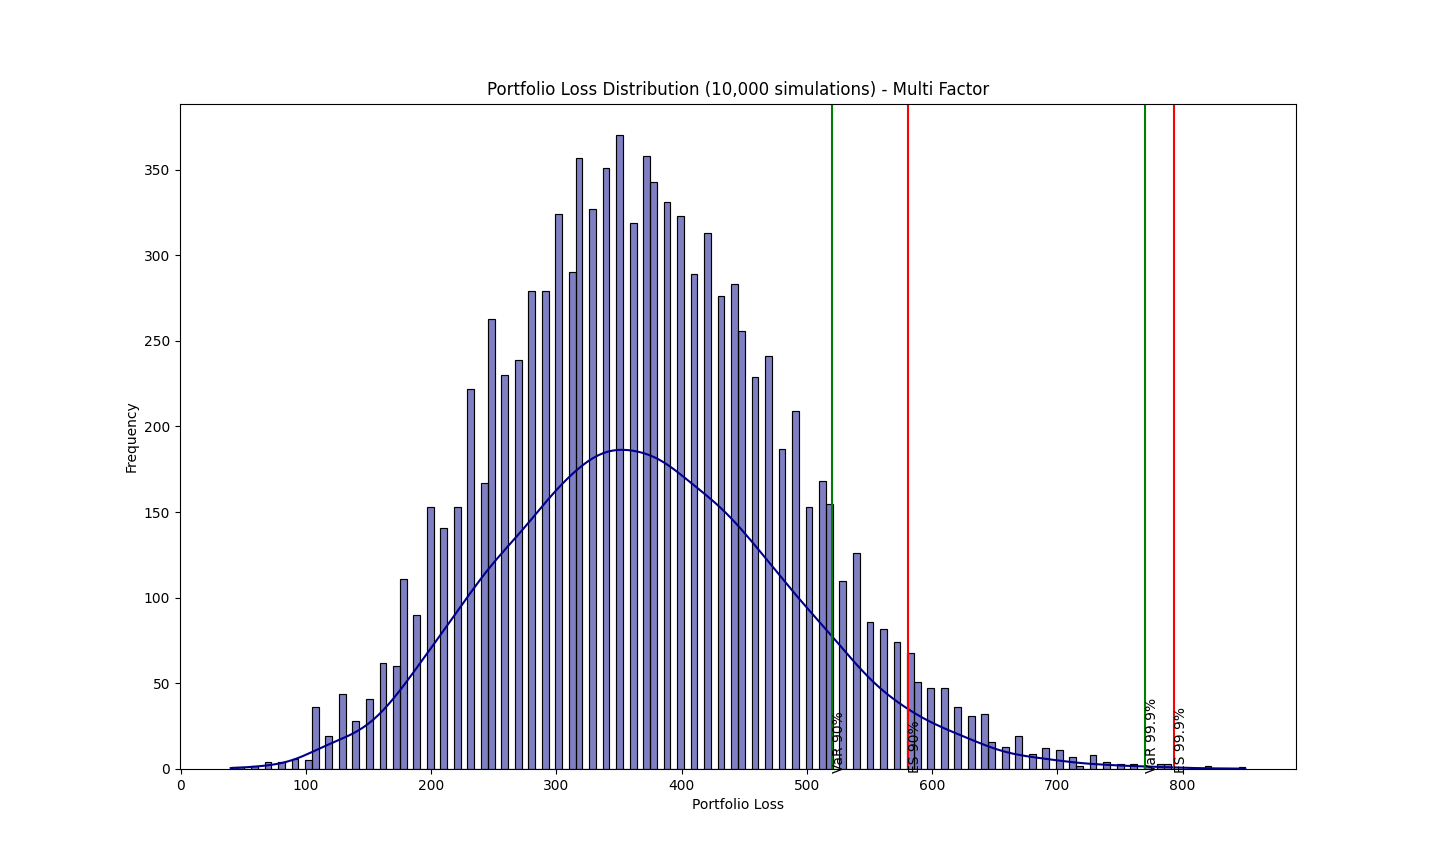
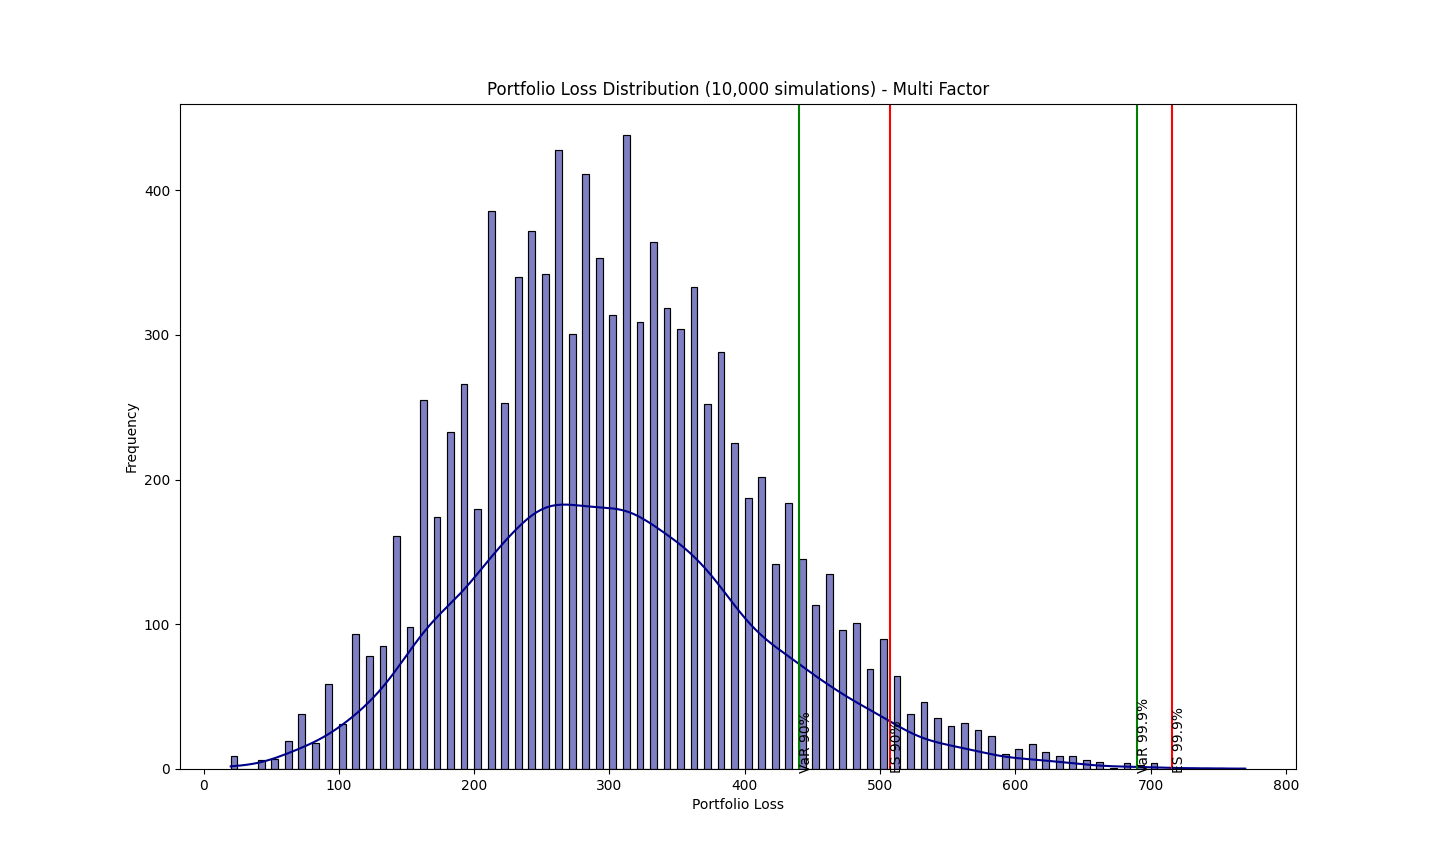
Added plots

diff --git a/code/multi_factor_simulation.py b/code/multi_factor_simulation.py
@@ -35,7 +35,7 @@ covariance_matrix.drop(covariance_matrix.columns[0], axis=1, inplace=True)
 # Monte Carlo simulation
 PORTFOLIO_LOSS = list()
 
-simulations = 50_000
+simulations = 10_000
 cols = df.columns.drop(['Sector'])
 df[cols] = df[cols].apply(pd.to_numeric, errors='coerce')
 
@@ -43,13 +43,27 @@ covariance_array = covariance_matrix.to_numpy()
 lower_cholesky = cholesky(covariance_array, lower=True)
 
 for i in range(simulations):
+    sys_factors = list()
+    num_of_factors = 3
+    Z1 = lower_cholesky*normal(loc=0.0, scale=1.0)
+    simulations = 100
+
+    for sim in range(simulations):
+        rand_num_list = list()
+        for i in range(num_of_factors):
+            rand_num = normal(loc=0.0, scale=1.0)
+            rand_num_list.append(rand_num)
+
+        rand_num_array = np.array(rand_num_list)
+        x = np.dot(lower_cholesky, rand_num_array)
+        sys_factors.append(x)
 
     asset_value = list()
     for row in range(len(df)):
         epsilon = normal(loc=0.0, scale=1.0)
-        first_part = df['Factor_Senstivity_rsq_1'].loc[row]*df['Z1'].loc[row] + df['Factor_Senstivity_rsq_2'].loc[row] * \
-            df['Z2'].loc[row] + \
-            df['Factor_Senstivity_rsq_3'].loc[row]*df['Z3'].loc[row]
+        first_part = df['Factor_Senstivity_rsq_1'].loc[row]*sys_factors[row][0] + \
+            df['Factor_Senstivity_rsq_2'].loc[row]*sys_factors[row][1] + \
+            df['Factor_Senstivity_rsq_3'].loc[row]*sys_factors[row][2]
         second_part = np.sqrt(1-(pow(df['Factor_Senstivity_rsq_1'].loc[row], 2) + pow(
             df['Factor_Senstivity_rsq_2'].loc[row], 2) + pow(df['Factor_Senstivity_rsq_3'].loc[row], 2)))*epsilon
         asset_value_i = first_part + second_part
@@ -114,6 +128,6 @@ plt.axvline(ES_999, color='red')
 plt.text(ES_999, -0.4, 'ES 99.9%', rotation=90)
 plt.xlabel('Portfolio Loss')
 plt.ylabel('Frequency')
-plt.title('Portfolio Loss Distribution (50,000 simulations) - Multi Factor')
+plt.title('Portfolio Loss Distribution (10,000 simulations) - Multi Factor')
 #plt.savefig(os.path.join(HOME, 'export', 'multi_factor_PLD_100.png'))
 plt.show()

diff --git a/code/test.py b/code/test.py
@@ -1,0 +1,49 @@
+"""This module calculates the systematic factor sensitivities for the multi factor model using Cholesky Decomposition followed by constrained multiple regression. 
+    """
+# ==============================================================================================================================================
+
+# import relevant packages and files
+import os
+import numpy as np
+import pandas as pd
+from numpy.random import normal
+from scipy.linalg import cholesky
+from __init__ import ImportedDataframe
+from numpy.random import normal
+import statsmodels.api as sm
+from statsmodels.formula.api import glm
+from sklearn.preprocessing import scale
+
+
+HOME = os.getcwd()
+
+covariance_matrix = ImportedDataframe().import_sql_data(
+    'SFMF/data/database.db', 'SELECT * FROM CovarianceMatrix')
+covariance_matrix.drop(covariance_matrix.index[3:999], inplace=True)
+covariance_matrix.drop(covariance_matrix.columns[0], axis=1, inplace=True)
+
+# ==============================================================================================================================================
+
+
+# Cholesky decomposition of the covariance matrix
+covariance_array = covariance_matrix.to_numpy()
+lower_cholesky = cholesky(covariance_array, lower=True)
+
+Z1 = lower_cholesky*normal(loc=0.0, scale=1.0)
+simulations = 100
+
+num_of_factors = 3
+sys_factors = list()
+
+for sim in range(simulations):
+    rand_num_list = list()
+    for i in range(num_of_factors):
+        rand_num = normal(loc=0.0, scale=1.0)
+        rand_num_list.append(rand_num)
+
+    rand_num_array = np.array(rand_num_list)
+    x = np.dot(lower_cholesky, rand_num_array)
+    sys_factors.append(x)
+
+for i in range(simulations):
+    print(sys_factors[i][0])

diff --git a/code/tempCodeRunnerFile.py b/code/tempCodeRunnerFile.py
@@ -1,0 +1,26 @@
+"""This module generates the following -
+       1. Portfolio loss based on the Multi Factor Model;
+       2. Plot of the portfolio loss distribution;
+       3. Value-at-Risk (VaR) for 90% and 99.9% confidence intervals;
+       4. Expected Shortfall(ES) for 90% and 99.9% confidence intervals.
+    """
+# ==============================================================================================================================================
+
+# import relevant packages and files
+from __init__ import ImportedDataframe
+import os
+import numpy as np
+import pandas as pd
+from numpy.random import normal
+from scipy.stats import norm
+import matplotlib.pyplot as plt
+import seaborn as sns
+from scipy.linalg import cholesky
+from numpy.random import normal
+from scipy.linalg import cholesky
+
+
+HOME = os.getcwd()
+
+df = pd.read_csv('export/multi_factor_sensitivities.csv')
+print(len(df))
